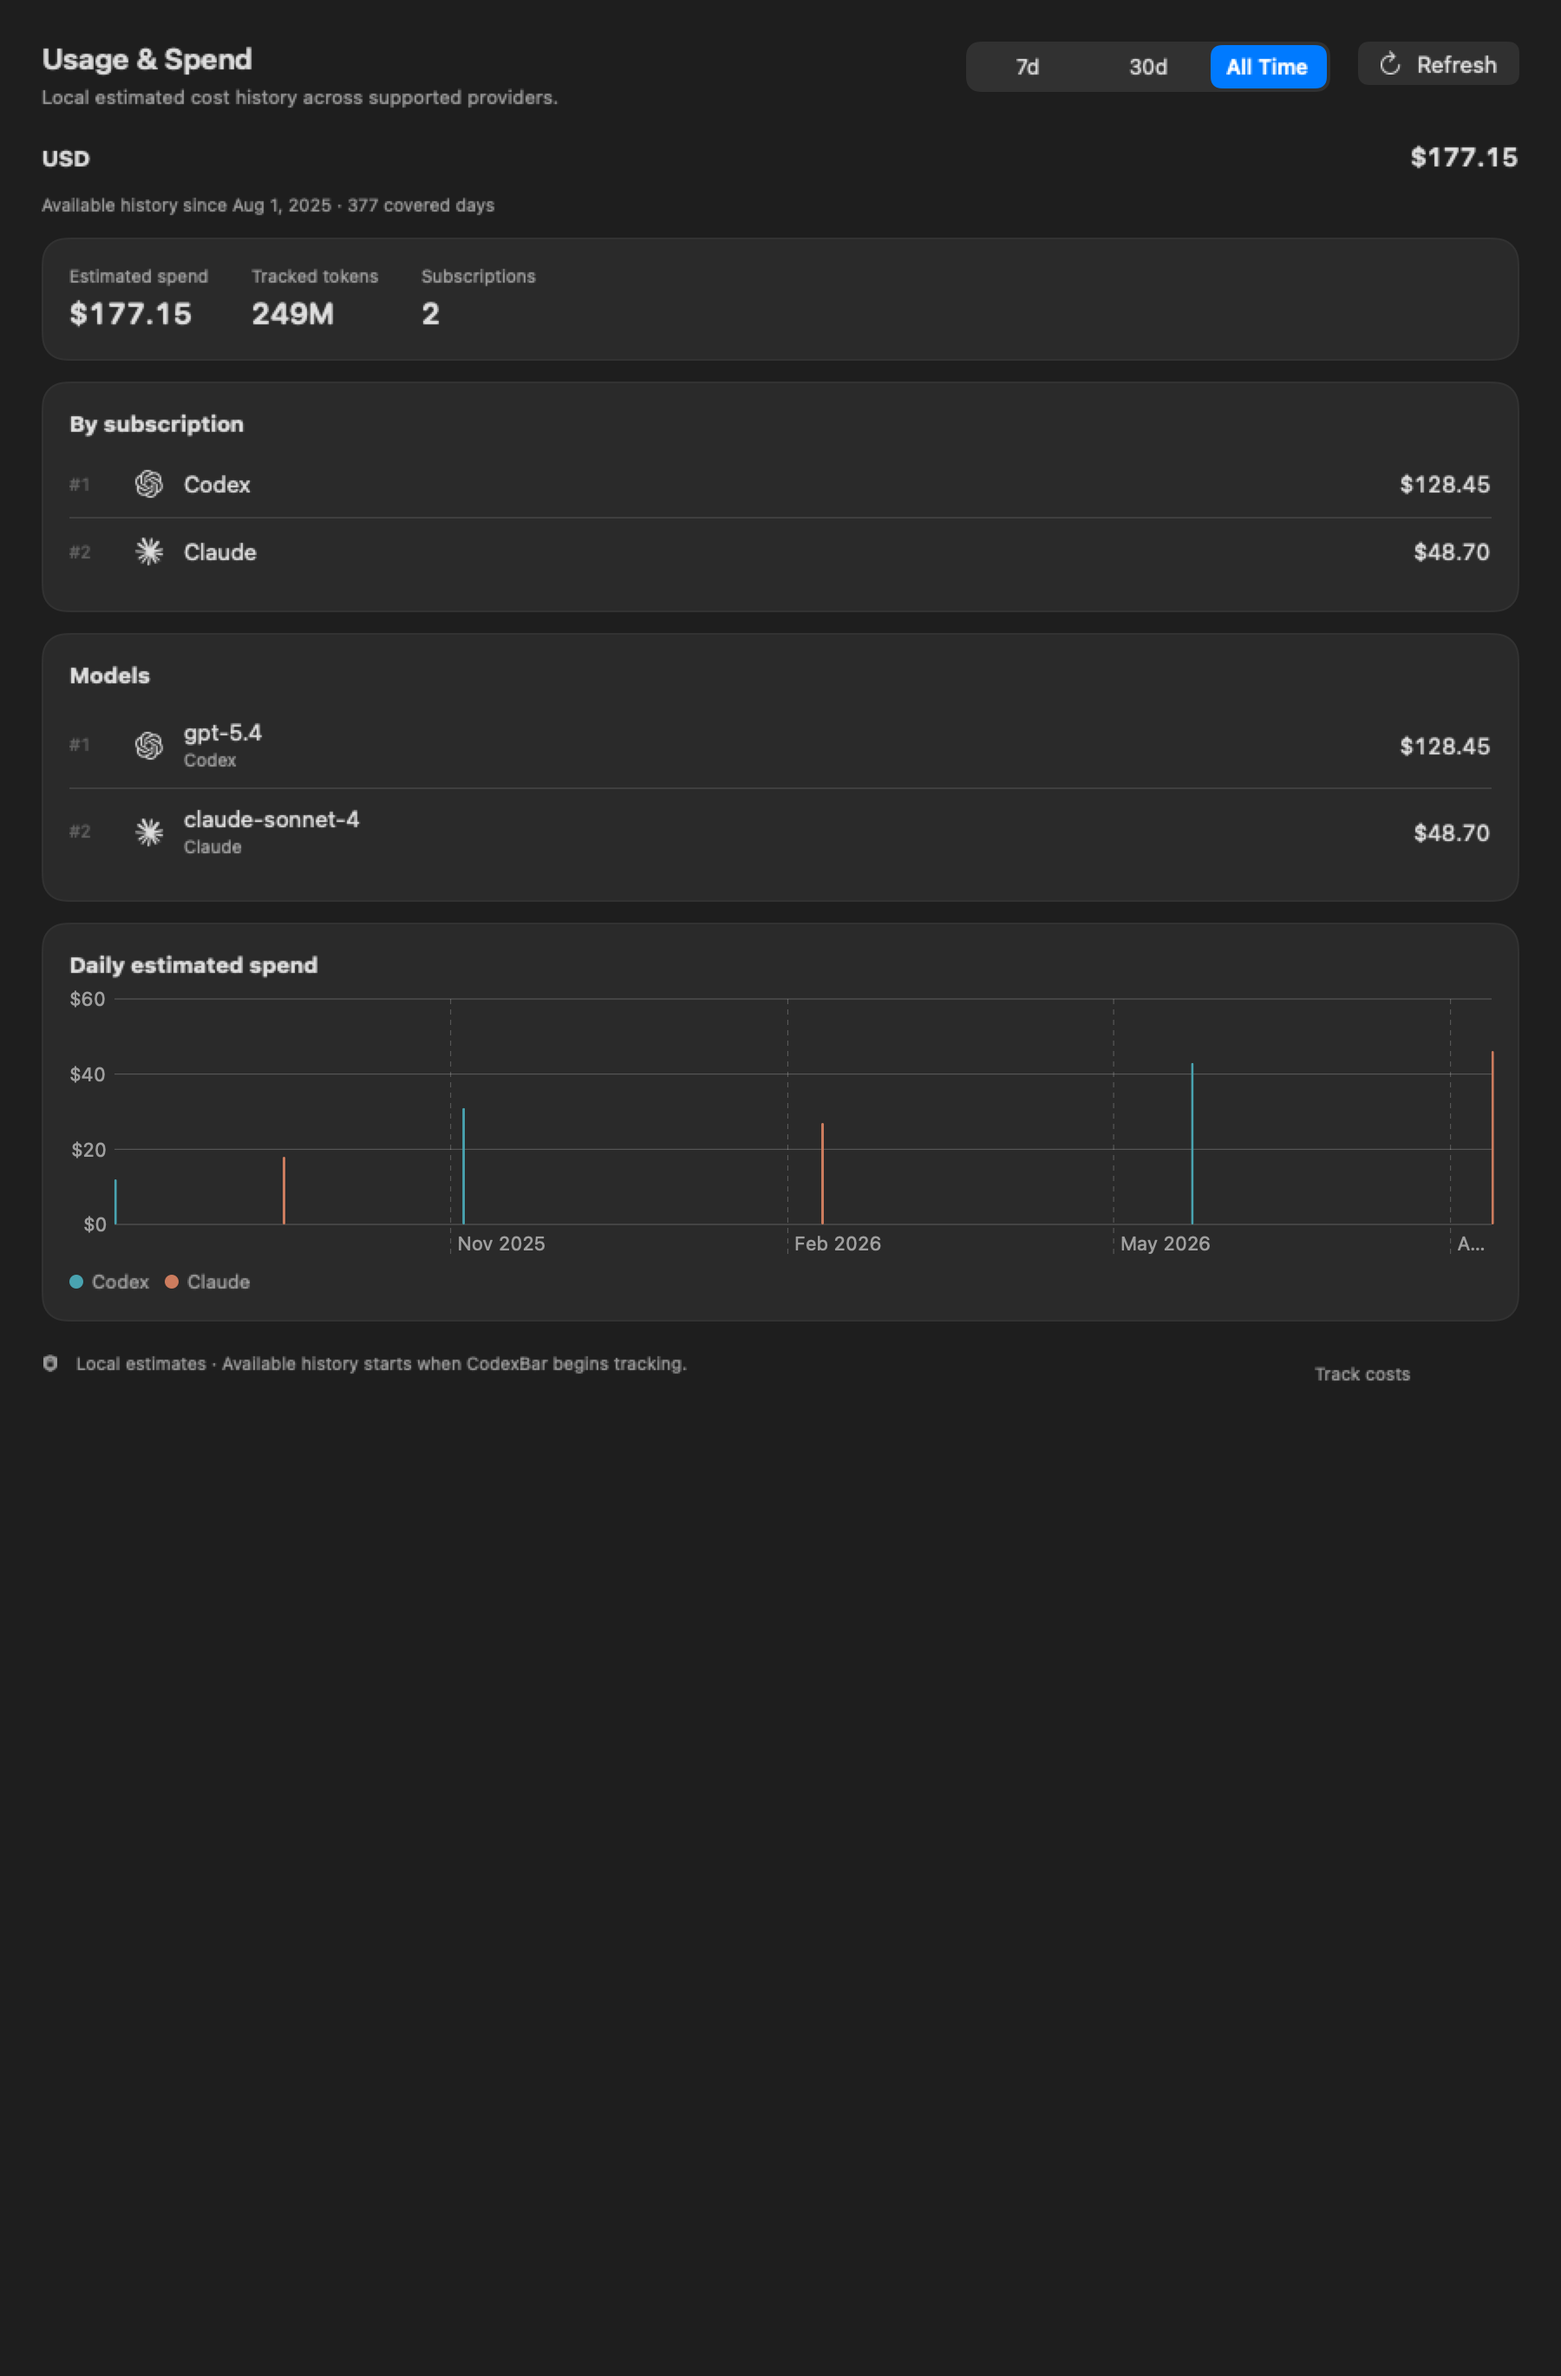
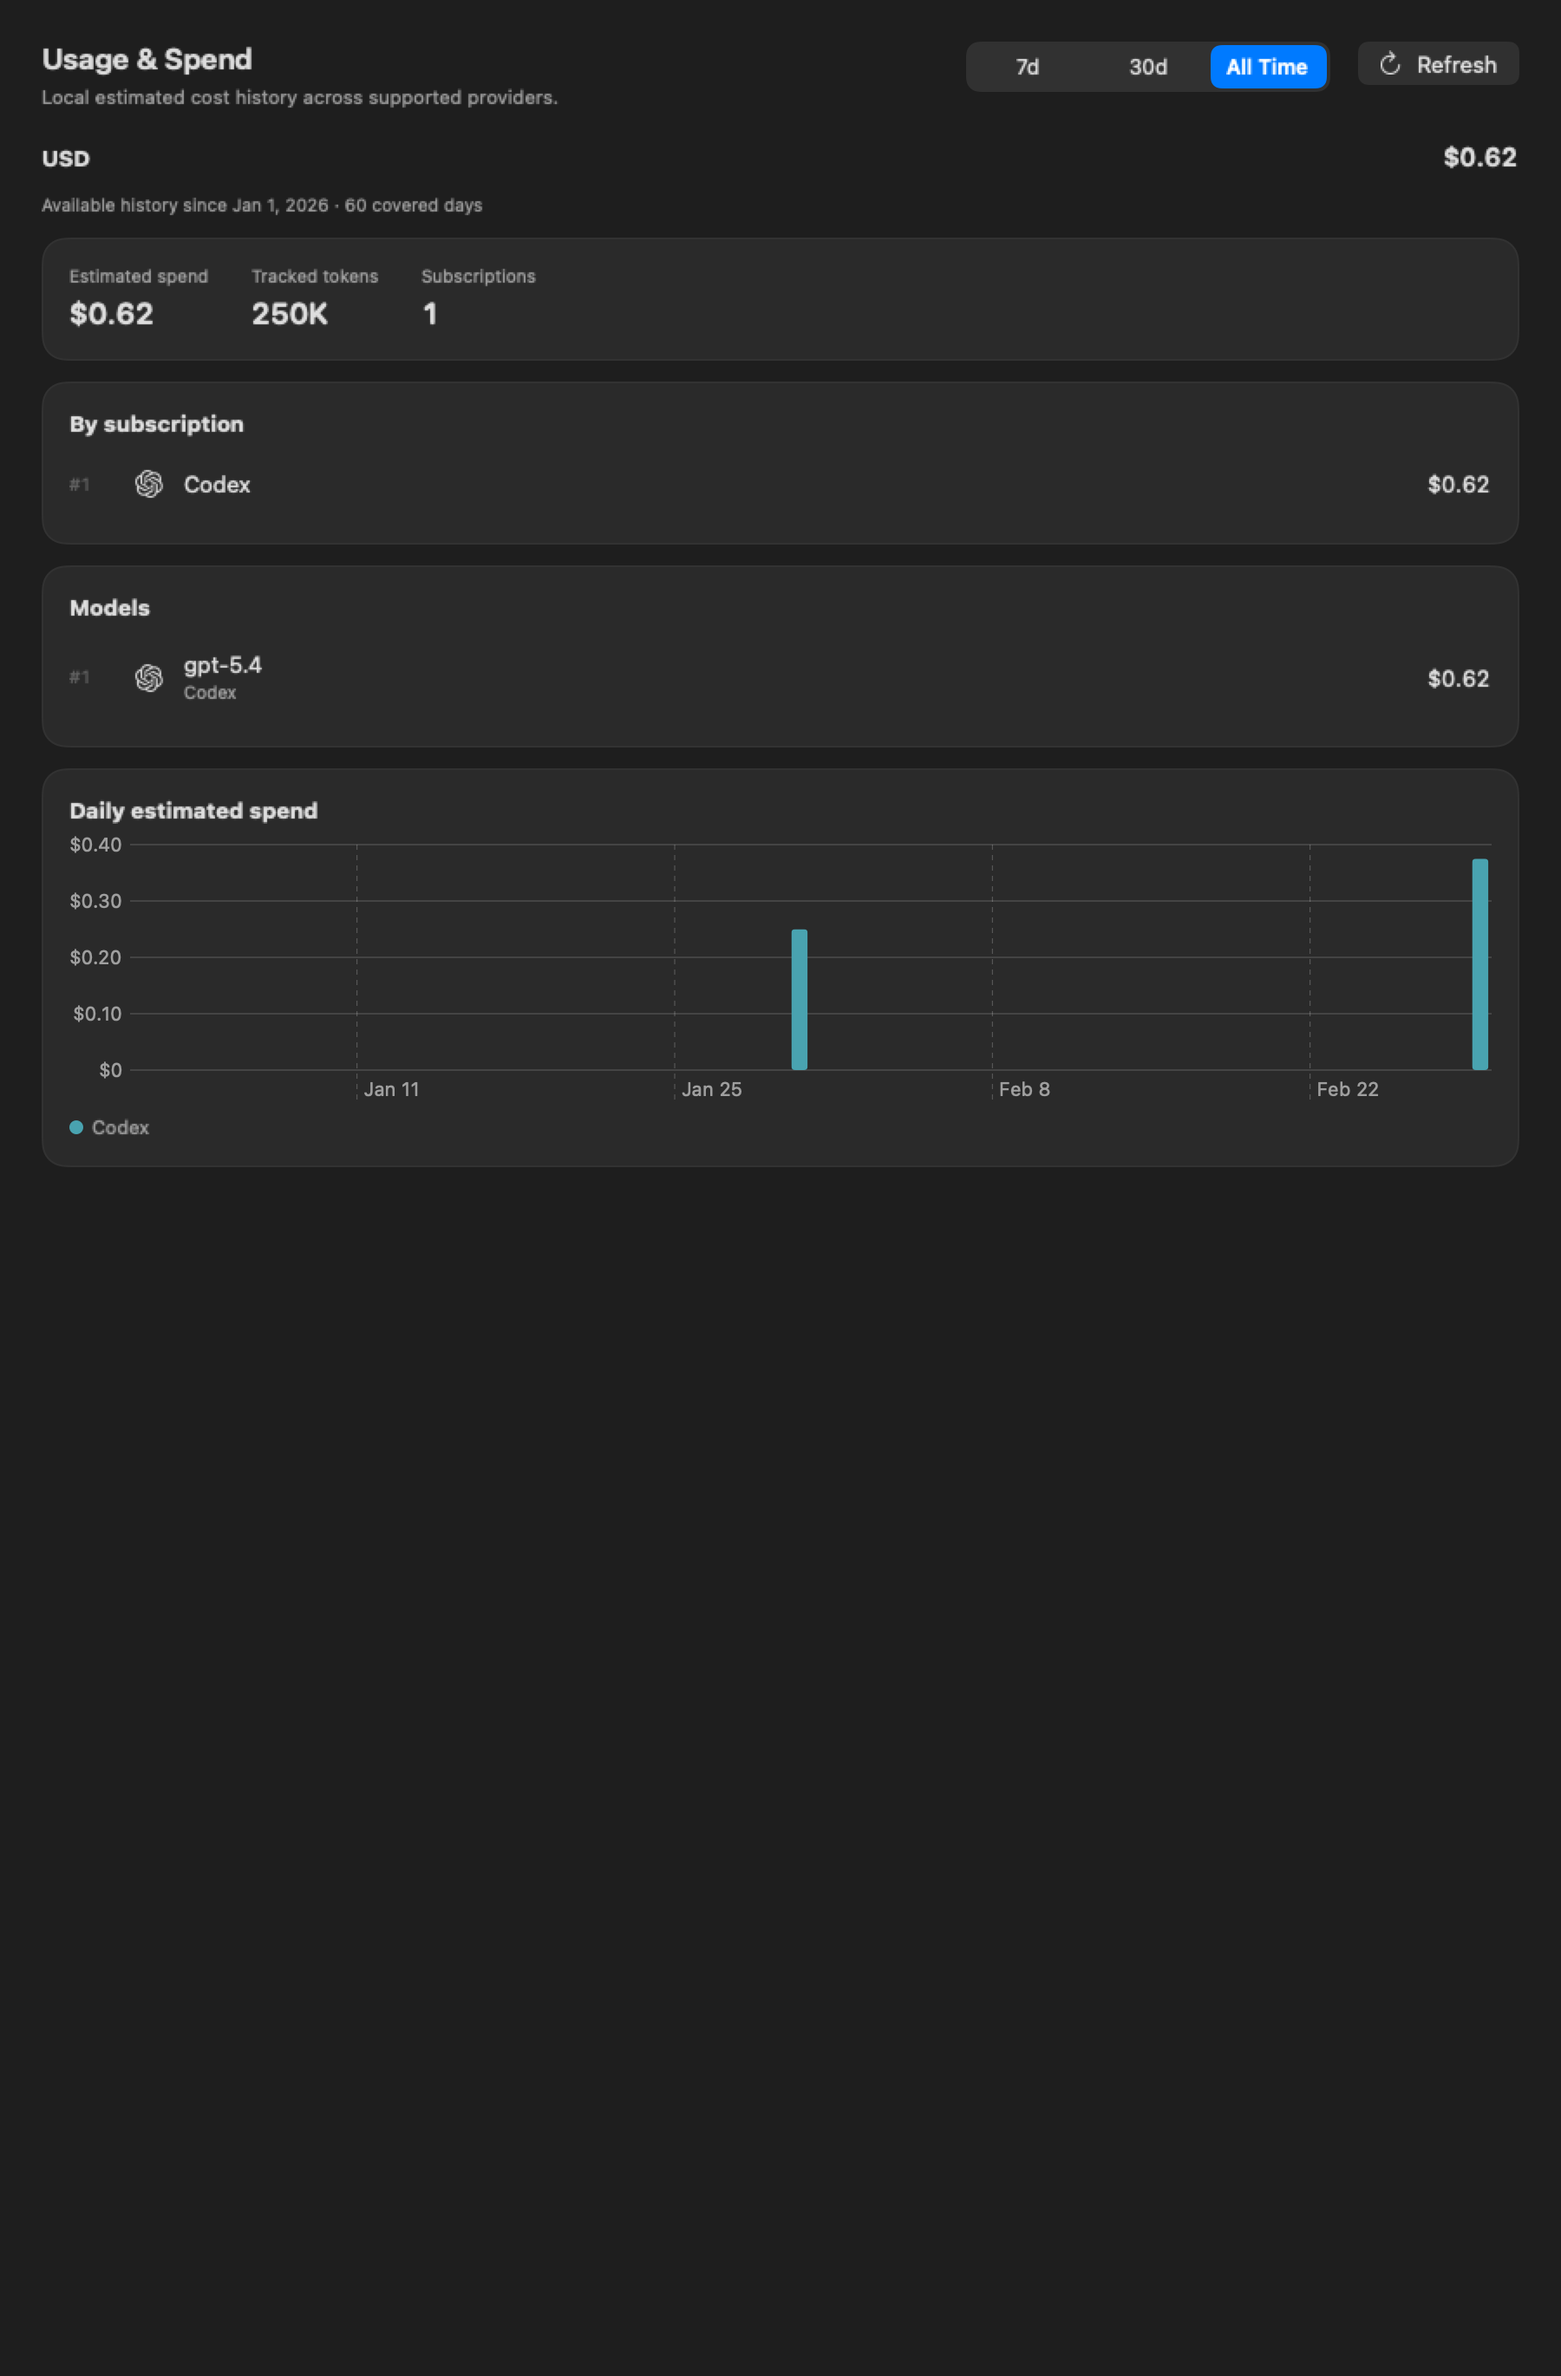
Prove lifetime history survives app restart

diff --git a/docs/screenshots/lifetime-spend-proof/README.md b/docs/screenshots/lifetime-spend-proof/README.md
@@ -1,21 +1,31 @@
 # Lifetime spend proof
 
-These two PNGs are deterministic, synthetic proof for the Usage & Spend **All Time** range.
+These two PNGs are privacy-safe packaged runtime proof for the Usage & Spend **All Time** range.
 
-- `all-time-dashboard.png` renders the production dashboard header and currency section.
-- `all-time-share-stats.png` is the production image exported by `ShareStatsRenderer`.
+- `all-time-dashboard.png` renders the production dashboard header and currency section after a real ledger reload.
+- `all-time-share-stats.png` is the production image exported by `ShareStatsRenderer` from that reloaded model.
+- `record-manifest.json` records the first packaged process and its 30-day ledger hash.
+- `reload-manifest.json` proves the second packaged process opened that exact ledger hash and rendered 60 tracked days.
 
-All dates, provider labels, model labels, token counts, and estimated costs come from fixed test fixtures. The renderer does
-not launch CodexBar, query providers, import browser cookies, read Keychain items, or load the user's settings and usage
-history.
+All dates, provider labels, model labels, token counts, and estimated costs come from fixed synthetic Codex JSONL. The
+proof script packages the debug CodexBar app and runs its binary twice in separate processes. The first process scans a
+30-day synthetic window through `CostUsageFetcher` and records it with `SpendHistoryLedger`. The second scans a later
+30-day window, reloads the same ledger, selects All Time, and emits the dashboard and share-card PNGs from the production
+views. The reload manifest's `ledgerBeforeSHA256` exactly matches the record manifest's `ledgerAfterSHA256`.
 
-Regenerate the images with the full Xcode toolchain:
+The proof mode resolves before normal app initialization and is compiled out of release builds. It fails closed unless its
+root is a private, current-user-owned, non-symlink directory matching `/private/tmp/codexbar-lifetime-proof.*` with a
+regular sentinel file. It constructs no `SettingsStore`, `UsageStore`, browser importer, provider network client, or
+Keychain service. The packaged processes receive an empty environment except for a minimal tool path, locale, isolated
+home/temp directories, and the proof controls.
+
+Regenerate the complete two-process proof with the full Xcode toolchain:
 
 ```sh
-CODEXBAR_LIFETIME_PROOF_DIR="$PWD/docs/screenshots/lifetime-spend-proof" \
-  DEVELOPER_DIR=/Applications/Xcode.app/Contents/Developer \
-  swift test --filter LifetimeSpendScreenshotRenderTests
+DEVELOPER_DIR=/Applications/Xcode.app/Contents/Developer \
+  ./Scripts/verify_lifetime_spend_runtime_proof.sh
 ```
 
-The test always verifies the PNG dimensions and share-text privacy contract. It writes documentation images only when
-`CODEXBAR_LIFETIME_PROOF_DIR` is set.
+The script retains its output under a newly created private temporary directory and prints that path. Before reporting
+success it requires exactly two PNGs, both manifests, and a manifest privacy scan. The tracked manifests omit the temporary
+root and run sentinel UUID; the screenshots show only Codex, `gpt-5.4`/GPT, and aggregate synthetic values.
